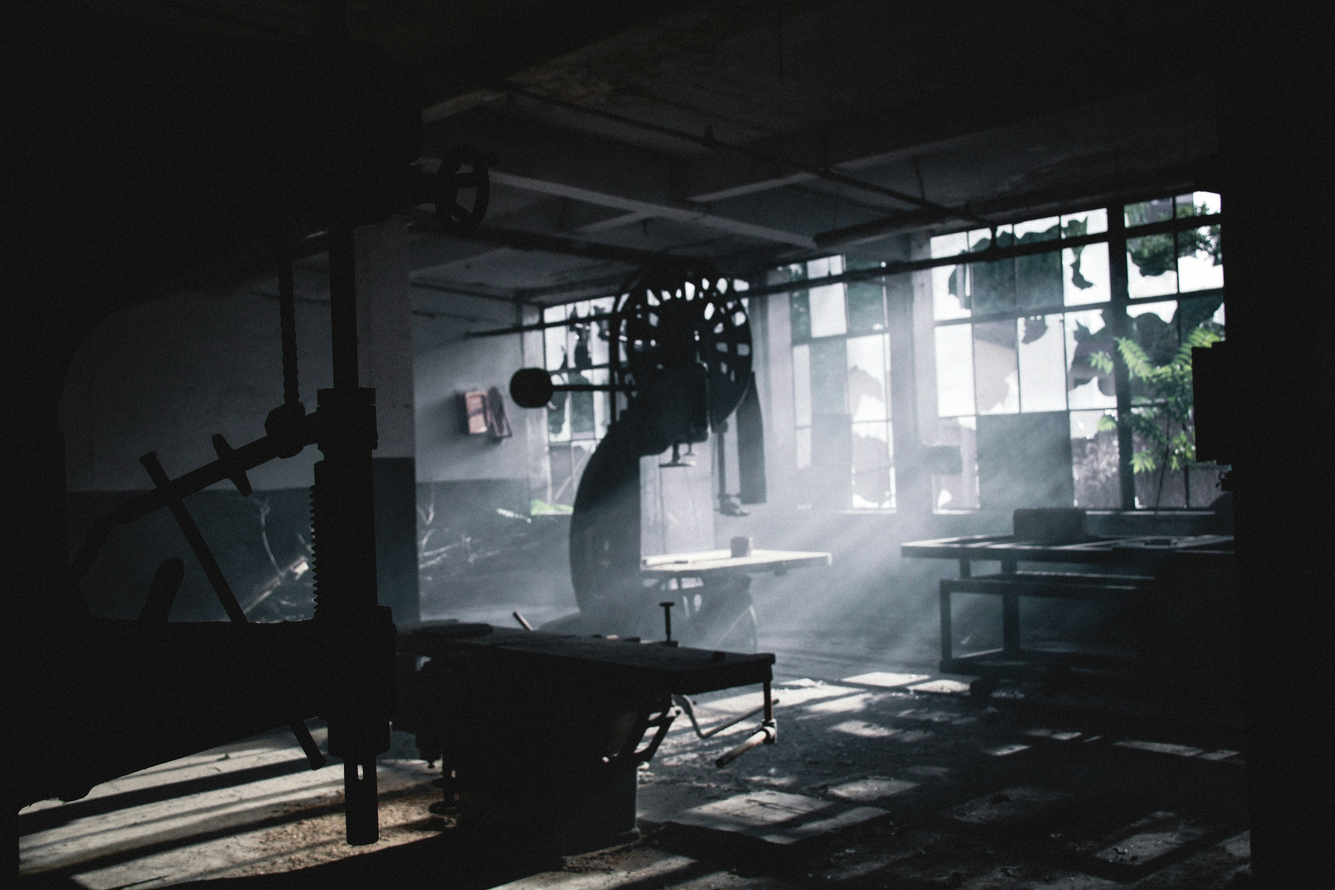
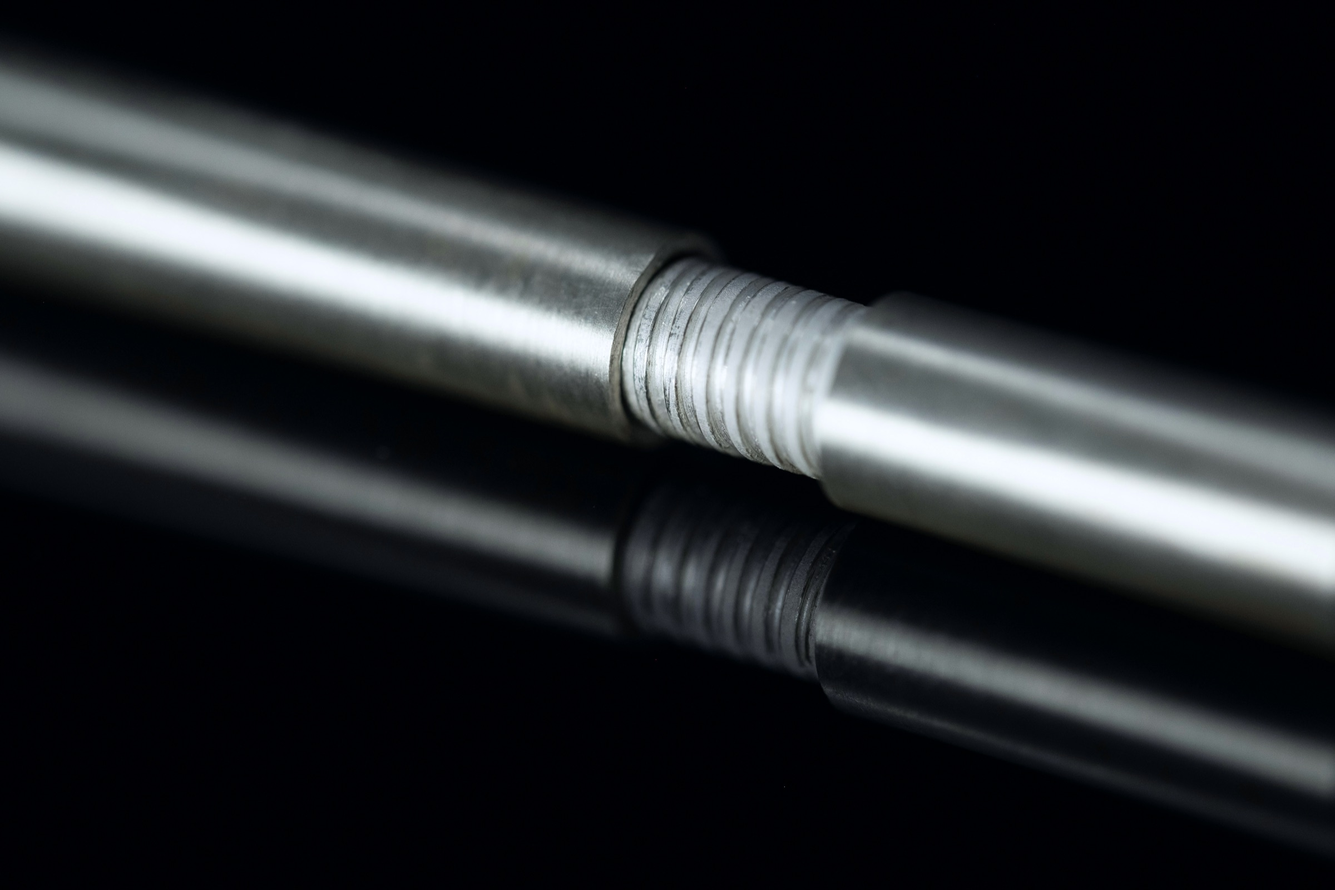
Impact: use the three provided images as backgrounds

diff --git a/index.html b/index.html
@@ -1434,11 +1434,11 @@ layout:
       <p class="impact__title">협력사와 함께 성장하며<br>지속가능한 제조 생태계를 만듭니다.</p>
     </div>
     <div class="impact__slide" data-slide="1">
-      <img class="impact__bg impact__bg--crop" src="assets/images/impact-partner.jpg" alt="" loading="lazy">
+      <img class="impact__bg" src="assets/images/impact-community.jpg" alt="" loading="lazy">
       <p class="impact__title">지역과 함께 일하고<br>지역과 함께 성장합니다.</p>
     </div>
     <div class="impact__slide" data-slide="2">
-      <img class="impact__bg" src="assets/images/impact-ring.jpg" alt="" loading="lazy">
+      <img class="impact__bg" src="assets/images/impact-sustain.jpg" alt="" loading="lazy">
       <p class="impact__title">탄소 배출은 줄이고<br>자원의 순환은 늘립니다.</p>
     </div>
     <div class="impact__veil"></div>

diff --git a/css/site.css b/css/site.css
@@ -117,7 +117,6 @@ body{background:var(--bg-dark);color:var(--on-dark);}
 .impact__slide{position:absolute;inset:0;opacity:0;transition:opacity .8s ease;}
 .impact__slide.is-active{opacity:1;}
 .impact__bg{position:absolute;inset:-6%;width:112%;height:112%;max-width:none;object-fit:cover;opacity:.5;filter:blur(50px);will-change:filter;}
-.impact__bg--crop{object-position:88% 22%;transform:scale(1.5);transform-origin:88% 22%;}
 .impact__veil{position:absolute;inset:0;background:rgba(0,0,0,.15);pointer-events:none;}
 .impact__title{z-index:3;position:absolute;left:var(--space-8);bottom:var(--space-8);font-size:var(--fs-h1);font-weight:var(--fw-strong);line-height:var(--lh-h1);}
 .impact__list{z-index:5;position:absolute;left:var(--space-8);top:var(--space-11);width:348px;max-width:calc(100% - var(--space-8) * 2);}

diff --git a/README.md b/README.md
@@ -32,5 +32,6 @@ typo=loud / image=high / color=dominant / image-radius=soft / card-radius=soft /
 - Network: 라벨·CTA 제거(타이틀+본문만). 맵은 반원 도트를 셀 크기 그대로 맞붙여(여백 없음) 타일링, 호버 시 해당 도트만 원으로 변환. 한국·미국 하이라이트 도트를 점선 아크 2개로 연결하고 화살표가 서로 반대 방향으로 이동, 두 점에는 펄스 링.
 - Network 맵 수정: 파란 도트 2개만 반원 유지, 나머지는 78% 크기의 원(도트 간 여백). 호버 시 원이 살짝 커짐.
 - Impact: 스티키 상태에서 스크롤하면 배경 블러(50→0px)가 풀리고, 좌상단 리스트 라인이 하나씩 채워진 뒤 다음 화면으로 이동. 버튼 제거, 배경은 hero-nuts.jpg.
-- Impact 재구성: 3개 화면(협력사 상생/지역사회/지속가능성). 각 화면마다 블러가 풀리고 해당 라인이 채워지면 다음 화면으로 전환. 배경은 고해상도 원본(2400px)만 사용. 2번째 화면은 1번 이미지를 크롭/확대한 것이라 교체용 고해상도 사진이 있으면 impact-partner 대신 넣을 것.
+- Impact 재구성: 3개 화면(협력사 상생/지역사회/지속가능성). 각 화면마다 블러가 풀리고 해당 라인이 채워지면 다음 화면으로 전환. 배경은 고해상도 원본(2400px)만 사용.
 - Impact 자동 재생: 스티키로 고정되면 화면당 약 4.2초 동안 블러가 풀리고 라인이 자동으로 채워진 뒤 다음 화면으로 자동 전환. 스크롤로도 즉시 다음/이전 화면으로 이동(스크롤 구간 3등분). reduced-motion이면 마지막 화면 정지.
+- Impact 배경은 사용자가 제공한 3장(impact-partner/community/sustain.jpg, 2400px).
